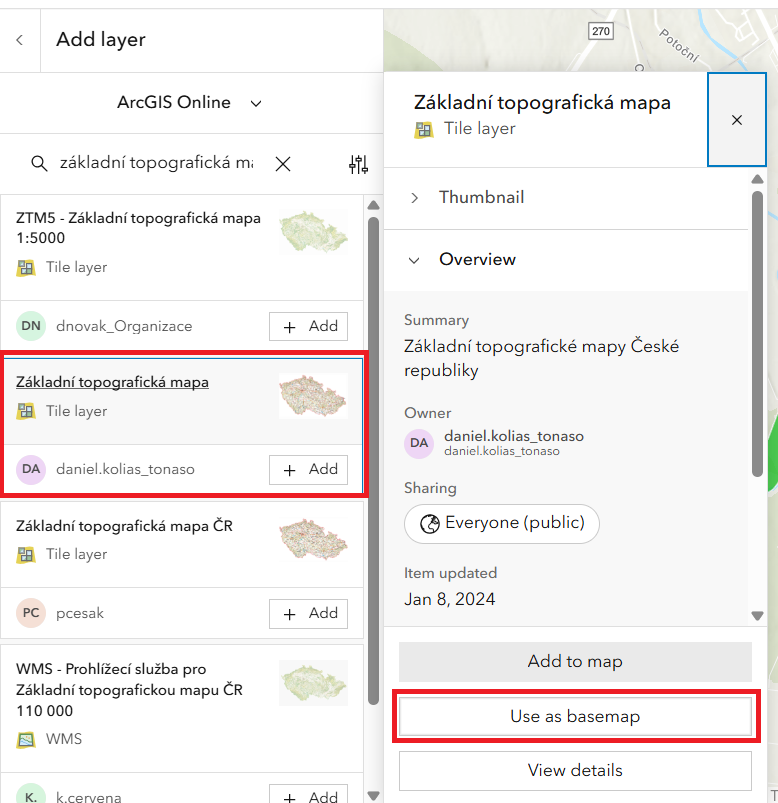
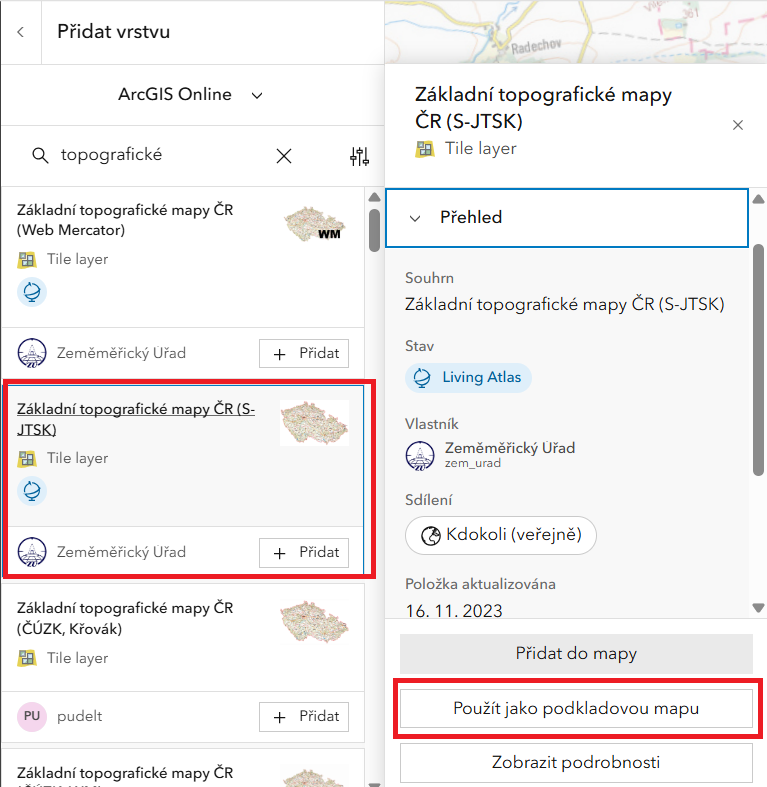
cv04 edit zadání

diff --git a/docs/cviceni/cviceni05.md b/docs/cviceni/cviceni05.md
@@ -49,21 +49,22 @@ ZABAGED představuje důležitý zdroj dat pro analýzu území, tvorbu map a 3D
 
 Pomocí mapových služeb od ČÚZK vytvořte __dvojici webových map__ dle individuálního zadání níže. 
 
-**Mapa I** bude obsahovat budovy (stavební objekty) v zadané obci __barevně rozlišené dle připojení na kanalizaci a plyn__.
-**Mapa II** bude zobrazovat v zadané ORP __rekreační potenciál__ pomocí metody intenzity jevu (heat map).
+[**Mapa I**](#mapa-i) bude obsahovat __budovy (stavební objekty) v zadané obci__ __barevně rozlišené dle připojení na kanalizaci a plyn__.
+
+[**Mapa II**](#mapa-ii) bude zobrazovat __rekreační potenciál v zadané [ORP]("obce s rozšířenou působností (ORP) jsou v Česku mezičlánkem přenesené působnosti samosprávy mezi krajskými úřady a ostatními obecními úřady") pomocí metody intenzity jevu (heat map)__.
 
 ??? task-fg-color "Individuální zadání"
     - také viz [Moodle](https://moodle-vyuka.cvut.cz/mod/page/view.php?id=363763){.color_def .underlined_dotted .external_link_icon target="_blank"}<br><br>
     <iframe src="https://docs.google.com/spreadsheets/d/e/2PACX-1vRxRPIWMyUuEA30Y8UhDF8f-T56L_N9MBSQeZ5eaw8GshZeA9MeO4aFCUhp3AnsT65sS3914Sjd8elH/pubhtml?gid=1732083778&single=true" width="100%" height="500" frameBorder="0"></iframe>
 
 
-## Mapa I – pracovní postup
+## Mapa I
 
 <div class="annotate" markdown>
 
 - Do prázdné mapy v ArcGIS Online __přidejte vrstvu__ __:material-layers-triple: SGEA_obce_2025__{.bg}. Tato vrstva obsahuje polygony území všech obcí v ČR.__(1)__{title="ukázka"}
 
-- Vrstvě __nastavte :material-filter: filtr dle kódu__ (v krajním případě dle názvu) __zadané obce__. Filtr omezí zobrazení prvků pouze na jednu zadanou obec.__(2)__{title="ukázka"}
+- S využitím funkce __:material-filter: filtru__ omezte vrstvu obcí pouze na území zadané obce. __Nastavte :material-filter: filtr dle kódu zadané obce__. __(2)__{title="nastavení filtru dle kódu obce"}
 
 - Do mapy dále __přidejte vrstvu__ __:material-layers: RÚIAN__{.bg}, __podvrstvu__ __:material-layers-triple: StavebniObjekt__{.bg} z [__Geoportálu ČÚZK__](https://geoportal.cuzk.cz/ "Služby → Prohlížecí → Esri ArcGIS Server (nebo WMS)"){.color_def .underlined_dotted .external_link_icon target="_blank"}. Tato vrstva obsahuje polygony všech stavebních objektů v ČR.__(3)__{title="ukázka"}
 
@@ -120,10 +121,10 @@ __:material-gas-burner: Připojení na rozvod plynu__
 
 - __Webovou mapu uložte__ s názvem **Prijmeni_Jmeno_SGEA2025_Mapa1** a __nastavte sdílení v rámci oganizace__{.primary_color}.
 
-???+ task-fg-color "Výstup cvičení (Mapa I): Webová mapa (ukázka)"
+<!--???+ task-fg-color "Výstup cvičení (Mapa I): Webová mapa (ukázka)"
 
     <iframe width="100%" height="400" frameborder="0" scrolling="no" marginheight="0" marginwidth="0" src="https://experience.arcgis.com/experience/0e6a7769af1d479489af74e2f98ca195"></iframe>
-
+-->
 
 <!--
 
@@ -136,7 +137,7 @@ __:material-gas-burner: Připojení na rozvod plynu__
 
 ---
 
-## Mapa II – pracovní postup
+## Mapa II
 
 <!--
 - ~~Obě vrstvy (stavební objekty i obvod zadané obce) __exportujte do formátu Shapefile__ a __stáhněte na disk počítače__.~~
@@ -161,7 +162,7 @@ __:material-gas-burner: Připojení na rozvod plynu__
 
 -->
 
-Do prázdné mapy na ArcGIS Online přidejte vrstvu *budov individuální a hromadné rekreace* __:material-layers-triple: Stav_objekty_rekr_BOD__{.bg}. Jedná se o bodovou vrstvu budov, jež jsou typu ***stavba pro rodinnou rekreaci*** (`Způsob využití = 8`) nebo ***stavba ubytovacího zařízení*** (`Způsob využití = 11`).<br>Úkolem je vytvořit mapu zadané ORP  s tematikou rekreačního potenciálu, kde navíc nakonfigurujete vyskakovací okno s grafem, který bude prezentovat výstavbu za poslední dekády v jednotlivých obcích (atributy začínající slovem *Výstavba*). Obce jsou opět k dispozici ve vrstvě __:material-layers-triple: SGEA_obce_2024__{.bg} na ArcGIS Online.<br>
+Do prázdné mapy na ArcGIS Online přidejte vrstvu *budov individuální a hromadné rekreace* __:material-layers-triple: Stav_objekty_rekr_BOD__{.bg}. Jedná se o bodovou vrstvu budov, jež jsou typu ***stavba pro rodinnou rekreaci*** (`Způsob využití = 8`) nebo ***stavba ubytovacího zařízení*** (`Způsob využití = 11`).<br>Úkolem je vytvořit mapu zadané ORP  s tematikou rekreačního potenciálu, kde navíc nakonfigurujete vyskakovací okno s grafem, který bude prezentovat výstavbu za poslední dekády v jednotlivých obcích (atributy začínající slovem *Výstavba*). Obce jsou opět k dispozici ve vrstvě __:material-layers-triple: SGEA_obce_2025__{.bg} na ArcGIS Online.<br>
 
 - Pomocí aplikace filtru nad vrstvou (podobně jako u pošt v minulé úloze) nastavíme obcím podmínku typu `Nadřazená ORP = 833`. Kód ORP lze zjistit z atributové tabulky obcí.__(10)__{title="zjištění kódu ORP"}.
 
@@ -190,7 +191,7 @@ Pro obce zapněte vyskakovací okna (*Pop-ups* v menu napravo), nejsou-li, a nas
 </div> <!-- pro anotace -->
 
 1.  ![](../assets/cviceni04/img01.png){ .no-filter width=700px} vrstva obcí
-2.  ![](../assets/cviceni04/img02.png){ .no-filter width=700px} filtr dle kódu obce
+2.  ![](../assets/cviceni04/obce_vyber.png){ .no-filter width=700px} nastavení filtru dle kódu obce
 3.  ![](../assets/cviceni04/img03.png){ .no-filter width=700px} vrstva "RÚIAN/StavebniObjekt"
 4.  ![](../assets/cviceni04/img04.png){ .no-filter width=200px}<br> parametry nástroje "Overlay Layers"
 5.  ![](../assets/cviceni04/img05.png){ .no-filter width=700px} výsledná vrstva (budovy jsou pouze uvnitř hraice obce)

diff --git a/docs/cviceni/cviceni04.md b/docs/cviceni/cviceni04.md
@@ -249,14 +249,14 @@ __Dále vytvořte a vyexportujte mapové kompozice:__
 9. využití území dle __:material-layers: CORINE Land Cover 2018__{.bg} __(3)__{title="legenda Corine Land Cover"} nad __:material-layers: Základní topografickou mapou__{.bg}, __měřítko volte 1 : 10 000__ __(10)__{title="nastavení měřítka při exportu mapy"}, __formát A4 landscape__ __(1)__{title="ukázka řešení"}
 
     - Základní topografická mapa je k dispozici např. na [__Geoportálu ČÚZK__](https://geoportal.cuzk.cz/ "Služby → Prohlížecí → Esri ArcGIS Server (nebo WMS)"){.color_def .underlined_dotted .external_link_icon target="_blank"}, lze ji také vyhledat v prostředí [__ArcGIS Online__](https://www.arcgis.com/ "služba 'Základní topografická mapa' od uživatele 'daniel.kolias_tonaso'"){.color_def .underlined_dotted .external_link_icon target="_blank"}
-    - výchozí podkladová mapa ArcGIS Online __není součástí správného výsledku__{.primary_color}. Pro správný výsledek je nutné podkladovou mapu změnit na oficiální [__Základní topografickou mapu od Zeměměřického úřadu__]("v prostředi AGOL odpovídá službě 'Základní topografická mapa' od uživatele 'daniel.kolias_tonaso'"){.color_def .underlined_dotted} __(7)__{title="přidejte ZTM jako podkladovou mapu"}.
+    - výchozí podkladová mapa ArcGIS Online __není součástí správného výsledku__{.primary_color}. Pro správný výsledek je nutné podkladovou mapu změnit na oficiální [__Základní topografickou mapu od Zeměměřického úřadu v souřadnicovém systému S-JTSK__]("v prostředi AGOL odpovídá službě 'Základní topografické mapy ČR (S-JTSK)' od uživatele 'Zeměměřický Úřad'"){.color_def .underlined_dotted} __(7)__{title="přidejte ZTM jako podkladovou mapu"}.
 
 ---
 
 10. nejbližšího __maloplošného chráněného území__{.underlined_dotted title="přír. památka, přír. rezervace, nár. přír. památka, nár. přír. rezervace"} přírody (nikoli okolí Vašeho bodu, ale okolí chráněného území) <!--__s popiskem__{.primary_color}--> nad __:material-layers: Základní topografickou mapou__{.bg}, __měřítko kompozice a orientaci papíru A4 volte tak, aby se dané chráněné území optimálně vešlo__ __(2)__{title="ukázka řešení"}
 
     - využijte vrstvu z [__Geoportálu Agentury ochrany přírody a krajiny ČR__](https://gis-aopkcr.opendata.arcgis.com/){.color_def .underlined_dotted .external_link_icon target="_blank"} (AOPK), vrstvu lze vyhledat také v prostředí [__ArcGIS Online__](https://www.arcgis.com/ "služba 'Maloplošná zvláště chráněná území' od uživatele 'aopkcr'"){.color_def .underlined_dotted .external_link_icon target="_blank"}
-    - výchozí podkladová mapa ArcGIS Online __není součástí správného výsledku__{.primary_color}. Pro správný výsledek je nutné podkladovou mapu změnit na oficiální [__Základní topografickou mapu od Zeměměřického úřadu__]("v prostředi AGOL odpovídá službě 'Základní topografická mapa' od uživatele 'daniel.kolias_tonaso'"){.color_def .underlined_dotted} __(8)__{title="přidejte ZTM jako podkladovou mapu"}.
+    - výchozí podkladová mapa ArcGIS Online __není součástí správného výsledku__{.primary_color}. Pro správný výsledek je nutné podkladovou mapu změnit na oficiální [__Základní topografickou mapu od Zeměměřického úřadu v souřadnicovém systému S-JTSK__]("v prostředi AGOL odpovídá službě 'Základní topografické mapy ČR (S-JTSK)' od uživatele 'Zeměměřický Úřad'"){.color_def .underlined_dotted} __(8)__{title="přidejte ZTM jako podkladovou mapu"}.
 
 
 
